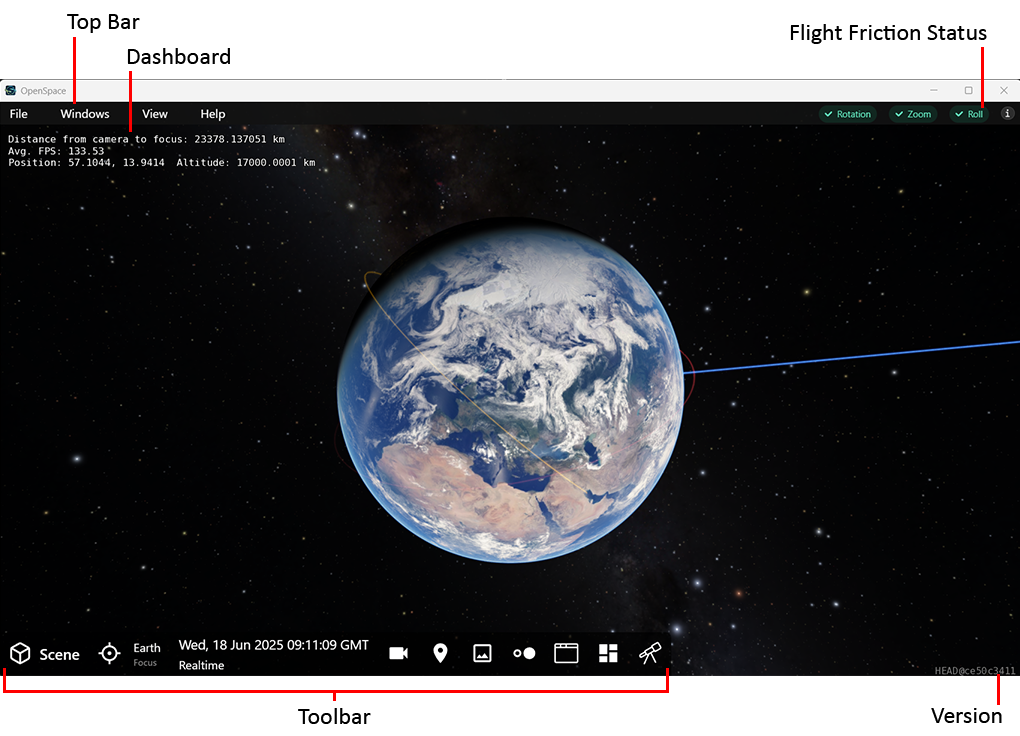
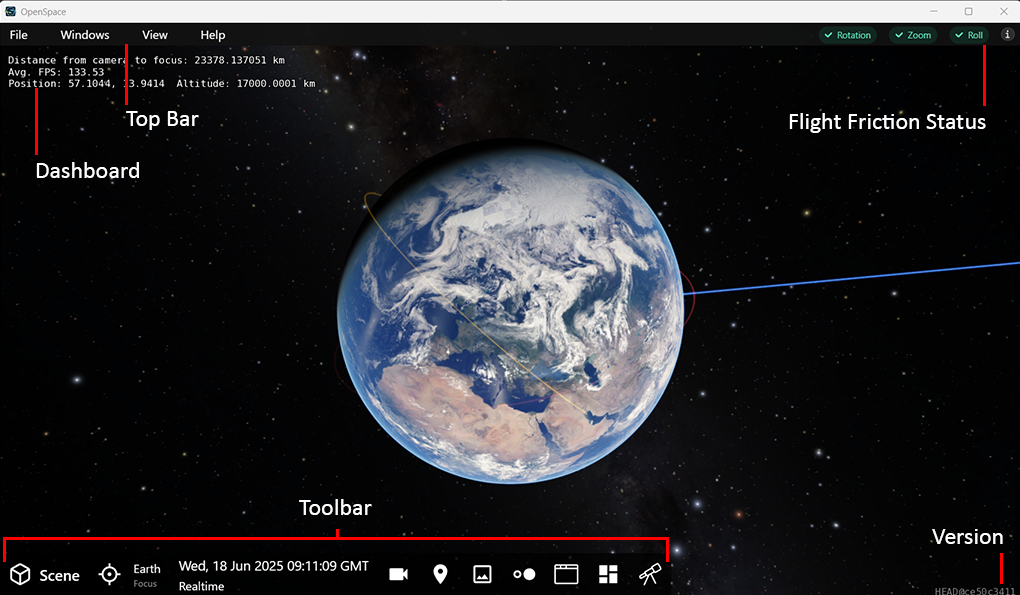
Update orientation images to work better with light/dark mode

diff --git a/getting-started/orientation/index.md b/getting-started/orientation/index.md
@@ -221,9 +221,18 @@ Friction status is "off" for rotational flight (orbiting).
 
 The Toolbar consists of panels that you use to control aspects of OpenSpace. Each Toolbar Button opens a panel. These panels collect specific functionality to alter time, record your session, access actions, and so on. Clicking on each button will bring up a panel that is attached to its corresponding icon, but may also be detached to float the panel.
 
+<!-- Only add the figure text to the last image, because otherwise it shows up twice -->
 :::{figure} panels_orientation.png
 :align: center
 :width: 100%
+:class: only-light
+:alt: OpenSpace Toolbar annotated.
+:::
+
+:::{figure} panels_orientation_dark.png
+:align: center
+:width: 100%
+:class: only-dark
 :alt: OpenSpace Toolbar annotated.
 
 OpenSpace's Toolbar annotated.
